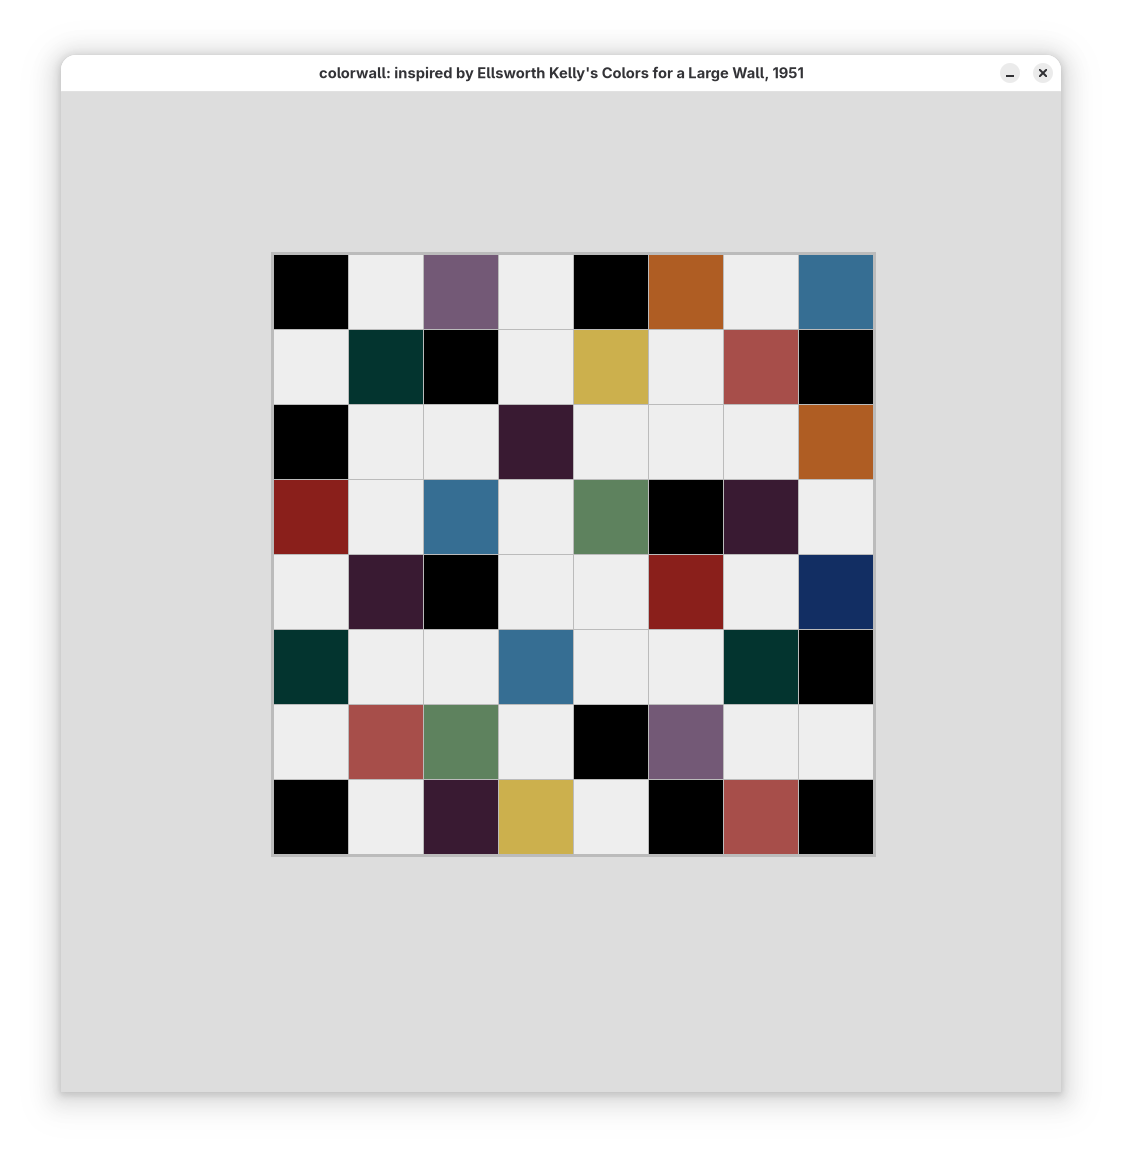
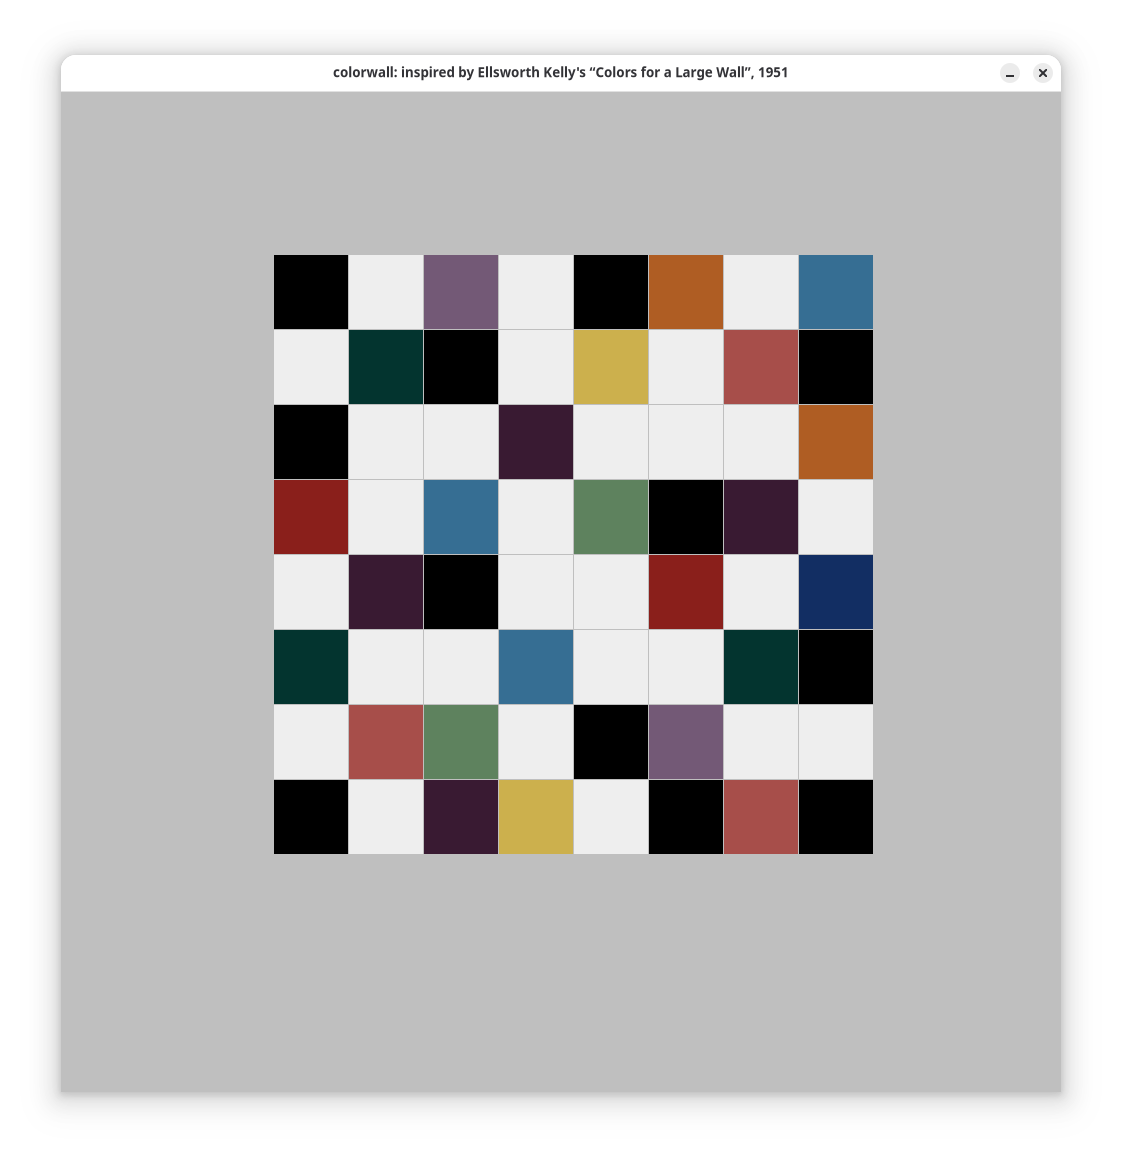
colorwall: simplify

diff --git a/colorwall/main.go b/colorwall/main.go
@@ -3,13 +3,19 @@ package main
 
 import (
 	"fmt"
+	"image/color"
 	"os"
 
 	"github.com/ajstarks/ebcanvas"
 	"github.com/hajimehoshi/ebiten/v2"
+	"github.com/hajimehoshi/ebiten/v2/inpututil"
 )
 
 var (
+	screenWidth  int = 1000
+	screenHeight int = 1000
+	bgcolor          = color.NRGBA{0xdd, 0xdd, 0xdd, 0xdd}
+
 	layout = [][]string{
 		{"#000000", "#eeeeee", "#735976", "#eeeeee", "#000000", "#af5d23", "#eeeeee", "#366e93"}, // row 1
 		{"#eeeeee", "#03342f", "#000000", "#eeeeee", "#ccb04d", "#eeeeee", "#a74e4a", "#000000"}, // row 2
@@ -20,14 +26,15 @@ var (
 		{"#eeeeee", "#a74e4a", "#5e825e", "#eeeeee", "#000000", "#735976", "#eeeeee", "#eeeeee"}, // row 7
 		{"#000000", "#eeeeee", "#391a32", "#ccb04d", "#eeeeee", "#000000", "#a74e4a", "#000000"}, // row 8
 	}
-
-	screenWidth  int = 1000
-	screenHeight int = 1000
 )
 
 type Game struct{}
 
 func (g *Game) Update() error {
+	if inpututil.IsKeyJustPressed(ebiten.KeyQ) ||
+		inpututil.IsKeyJustPressed(ebiten.KeyEscape) {
+		os.Exit(0)
+	}
 	return nil
 }
 
@@ -51,16 +58,12 @@ func colorwall(screen *ebiten.Image) {
 
 	xincr = (right - left) / nr
 	yincr = (top - bottom) / nc
-	bgcolor := ebcanvas.ColorLookup("#dddddd")
-	basecolor := ebcanvas.ColorLookup("#bbbbbb")
-
 	canvas.Background(bgcolor)
-	canvas.Square(51.25, 53.75, 60.5, basecolor)
 	y = top
-	for i := 0; i < len(layout); i++ {
+	for i := range layout {
 		row := layout[i]
 		x = left
-		for j := 0; j < len(row); j++ {
+		for j := range row {
 			canvas.Square(x, y, yincr-0.1, ebcanvas.ColorLookup(row[j]))
 			x += xincr
 		}
@@ -70,7 +73,7 @@ func colorwall(screen *ebiten.Image) {
 
 func main() {
 	ebiten.SetWindowSize(screenWidth, screenHeight)
-	ebiten.SetWindowTitle("colorwall: inspired by Ellsworth Kelly's Colors for a Large Wall, 1951")
+	ebiten.SetWindowTitle("colorwall: inspired by Ellsworth Kelly's “Colors for a Large Wall”, 1951")
 	if err := ebiten.RunGame(&Game{}); err != nil {
 		fmt.Fprintf(os.Stderr, "%v\n", err)
 		return
